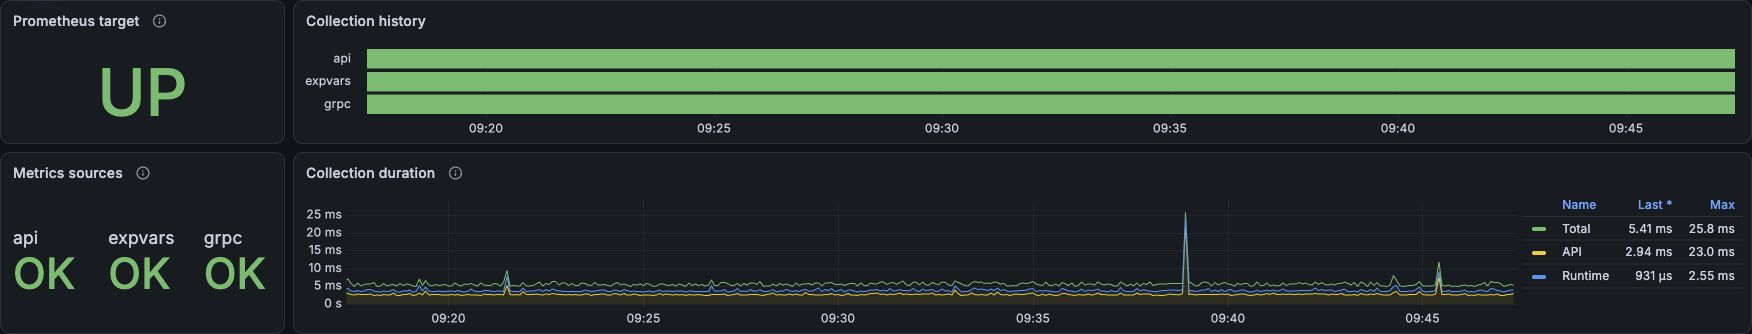
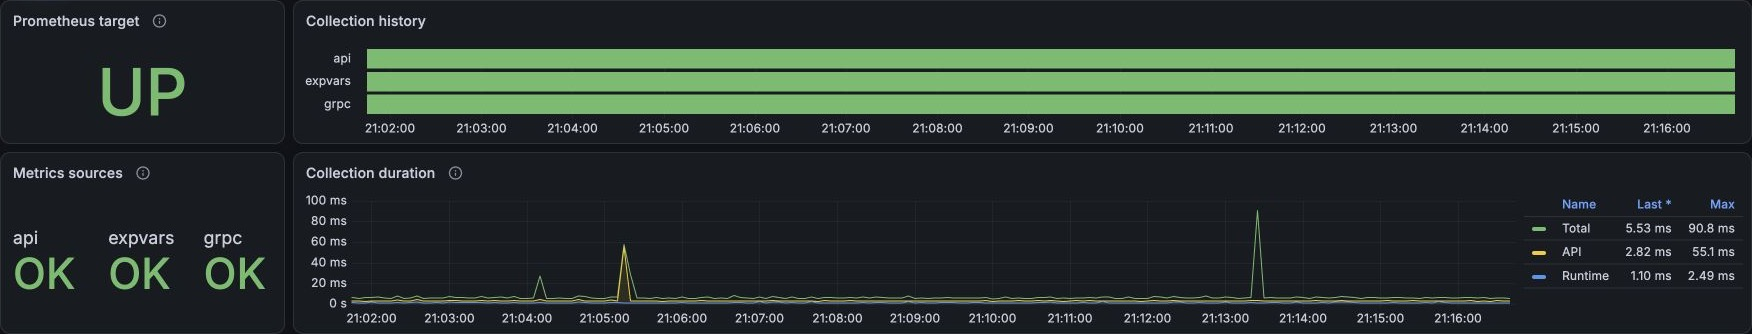
Prepare v0.3.0 release and refresh dashboard documentation

diff --git a/README.md b/README.md
@@ -66,7 +66,7 @@ cp .env.example .env
 docker compose up -d
 ```
 
-The default image tag is 0.2.0. To use the latest successful main build, set
+The default image tag is 0.3.0. To use the latest successful main build, set
 `EXPORTER_VERSION=edge` in `.env`. The `edge` tag is updated after each
 successful main pipeline.
 To build your checkout locally:
@@ -83,7 +83,7 @@ existing Compose file (here the panel service key is `x-ui`):
 services:
   # Your existing x-ui service remains here.
   exporter:
-    image: ghcr.io/nike38rus/3x-ui-exporter:0.2.0
+    image: ghcr.io/nike38rus/3x-ui-exporter:0.3.0
     network_mode: service:x-ui
     depends_on:
       x-ui:
@@ -133,6 +133,10 @@ Choose your Prometheus datasource on import; the supplied queries expect
 job="xui-exporter". Select an instance, then outbound/balancer filters.
 Dashboards were exported from Grafana 13.2; older versions are not guaranteed
 compatible. The classic format is the more widely supported import option.
+
+Queries use the current metric schema without compatibility rewrites. Historical
+series keep their original labels; schema changes can appear as separate series
+or gaps. Ordinary observatory and burstObservatory remain supported.
 
 Quality scores in Grafana are dashboard heuristics, not the Xray balancer score.
 Collection duration shows overlapping source spans without stacking; Total is
@@ -317,7 +321,7 @@ cover selection roles for all four strategies, including empty results and overr
 
 </details>
 
-### Xray
+### Panel state
 
 Sources: panel API for versions/process state; Xray expvars `memstats` for
 memory/GC. Memory metrics describe the Xray Go runtime, not the exporter process. Go-managed memory is not process RSS. Uptime and goroutine
@@ -343,9 +347,9 @@ The response does not provide a serialized snapshot timestamp, so its freshness
 cannot be independently verified. Missing fields are omitted, malformed fields
 mark API collection unsuccessful while valid independent fields remain available.
 Diagnostic `errorMsg` text is not exported or logged. The screenshots below show
-the memory/GC panels, not the new version and process-state header.
+the panel/core versions, process state and Xray memory/GC panels.
 
-![Xray memory and heap allocation metrics](docs/images/xray-process.jpg)
+![Panel and Xray versions, process state and memory metrics](docs/images/panel-state.jpg)
 
 <details>
 <summary>Garbage collection</summary>
@@ -371,46 +375,54 @@ by Prometheus, not this exporter. Settings and server/status requests start toge
 soon as settings completes. The duration panel shows overlapping source durations
 without stacking; Total is the end-to-end duration measured by Prometheus.
 
-The screenshot below predates parallel status collection; the updated duration
-panel uses unstacked source lines.
+The duration panel shows API and Runtime spans alongside the independent
+Prometheus Total, without stacking overlapping intervals.
 
 ![Exporter collection status and duration](docs/images/exporter-stats.jpg)
 
 ## Dashboard queries
 
-The role-aware dashboards require an exporter build that includes the `role`
-label (v0.2.0 and later). Upgrade the exporter and dashboards together. Selection
-queries explicitly exclude pre-upgrade series without a role, so historical data
-from the old schema does not double-count targets. Older samples are not migrated.
+Use exporter v0.2.0 or later for primary/fallback/override selection roles.
+Selection queries retain historical series without `role`; old and new label sets
+remain separate series rather than being migrated or merged. On a range spanning
+an upgrade, selected-time percentages are calculated over the available samples
+of each series, not over the entire range with missing samples counted as zero.
 
 Selected time (%), instant query:
 
 ```promql
-100 * avg_over_time(xui_balancer_outbound_selected{balancer=~"$balancer",role=~"primary|fallback|override"}[$__range])
+100 * avg_over_time(xui_balancer_outbound_selected{balancer=~"$balancer"}[$__range])
 ```
 
-Timeline (range query, actual step aligned to scrape interval):
+Timeline (range query):
 
 ```promql
-xui_balancer_outbound_selected{balancer=~"$balancer",role=~"primary|fallback|override"}
+xui_balancer_outbound_selected{balancer=~"$balancer"}
 ```
 
 Use role and outbound in the legend; fallback and override appear alongside
-primary targets. Selected target count filters `role="primary"`.
+primary targets. Selected target count filters `role="primary"`; it has no data
+for history predating that label. No primary role is inferred for older samples.
+
+Range panels use a 5-second minimum interval and a 5,000-point target. Grafana
+increases the step for longer ranges to stay below the Prometheus 11,000-point
+limit. Short states can disappear at coarser resolution; zoom in to inspect them.
 
 State timeline: fixed color mode, value mappings 0=gray/Not selected and
 1=green/Selected, mergeValues=true. Time percentages require regular complete
 scrapes. Multiple selected targets may sum above 100%.
 
-Selection state changes in the preceding minute (minute query step, bars aligned before):
+Selection state changes in a centered minute (minimum query step of one minute, centered bars):
 
 ```promql
-sum by (instance,balancer) (changes(xui_balancer_outbound_selected{role=~"primary|fallback|override"}[1m]))
+sum by (instance,balancer) (changes(xui_balancer_outbound_selected[1m] offset -30s))
 ```
 
 Each 0/1 transition is counted separately across primary, fallback and override.
 A target replacement may cause multiple transitions. Minute boundaries and
-scrape gaps limit completeness; this is not a connection-switch log.
+scrape gaps limit completeness; this is not a connection-switch log. The latest
+centered bucket is incomplete. At query steps above one minute, the panel samples
+one-minute windows rather than counting all transitions over the intervening time.
 
 ## Collection timing
 
@@ -491,10 +503,10 @@ multi-architecture image `ghcr.io/nike38rus/3x-ui-exporter:edge` and a
 CI checks pull requests and main. Pushing a vMAJOR.MINOR.PATCH tag runs tests,
 builds static Linux amd64/arm64 archives with SHA-256 checksums, creates a
 GitHub release and publishes a multi-architecture GHCR image. A tag such as
-v0.2.0 produces ghcr.io/nike38rus/3x-ui-exporter:0.2.0. The first GHCR package
+v0.3.0 produces ghcr.io/nike38rus/3x-ui-exporter:0.3.0. The first GHCR package
 may need its visibility set to public in GitHub package settings.
 
-Build locally with make release VERSION=v0.2.0. Archives include dashboards,
+Build locally with make release VERSION=v0.3.0. Archives include dashboards,
 README with its screenshot assets, LICENSE and third-party notices. Build version is embedded via
 -X main.version and exposed in xui_exporter_build_info. Release workflows
 publish versioned releases when a tag is pushed; local builds do not publish anything.

diff --git a/VERIFICATION.md b/VERIFICATION.md
@@ -12,7 +12,7 @@ timeouts, concurrent scrapes, request budgets and independent source timing.
 The gRPC binding test uses an in-memory server; no live services are required.
 
 make build linux builds the native binary and static Linux amd64/arm64 binaries.
-make release VERSION=v0.1.0 packages the Linux binaries with dashboards,
+make release VERSION=v0.3.0 packages the Linux binaries with dashboards,
 documentation and license notices, and produces SHA-256 checksums.
 
 ## Deployment verification
@@ -52,4 +52,19 @@ both API calls without summing them, and gRPC/expvars do not wait for status.
 Read-only verification of the installed panel confirmed the existing Bearer token
 can call server/status and receive panelVersion 3.10.2, Xray version 26.10.10,
 and state running. No service restart or routing mutation was used for this check.
-The new exporter binary has not yet been deployed for an end-to-end live test.
+The user subsequently installed the edge image and updated the dashboard.
+
+## Dashboard query audit
+
+Both dashboard formats contain the same 49 PromQL expressions. All were accepted
+by the deployment Prometheus during the query audit. Over a two-day range, health,
+latency and failed-probe ratios retained identical values after removing redundant
+vector matching. The simplified quality expression matched the original values
+within floating-point tolerance. Removing the selection role filter recovered
+older label-less history as separate series. Deviation now shows its raw gauge
+rather than an interval average.
+
+A two-day query at a 15-second step reproduced the 11,000-point resolution error;
+a 30-second step succeeded. Both formats now use a 5,000-point target while
+preserving minimum intervals. This verification covers the checked queries and
+deployment, not every Grafana version or arbitrary date range.

diff --git a/docs/releases/v0.3.0.md b/docs/releases/v0.3.0.md
@@ -1,0 +1,19 @@
+## Panel and Xray status
+
+- Add a GET /panel/api/server/status request within the existing API source, parallel with configuration discovery.
+- Export xui_panel_info{version}, xui_xray_info{version}, and xui_xray_state{state="running|stop|error"}.
+- Preserve independent successful fields and sources on failure; omit unknown/missing state and versions without caching or source fallback.
+- API duration now spans both parallel API requests; runtime collection starts immediately after configuration discovery, without waiting for status.
+- Add version/process-state cards to both dashboard formats and display overlapping durations without stacking.
+
+The panel supplies its latest background status snapshot, not a fresh process probe on each exporter request. Missing fields in older panels are omitted. Update the dashboard with the exporter to use the revised timing model.
+
+## Dashboard resolution and query cleanup
+
+- Rename the Xray process section to Panel state.
+- Reduce the point target to 5,000 in both dashboard formats, avoiding the observed two-day resolution error caused by Grafana rounding the step to 15 seconds. Preserve minimum query intervals.
+- Remove the all-role selection filter so pre-role history remains visible as separate series, without compatibility rewrites or inferred labels. Primary target count still requires an explicit primary role.
+- Remove redundant vector matching, show raw RTT deviation, and simplify quality algebra without changing its formula. Keep ordinary and burst observation support.
+- Document centered selection-change windows and coarse-resolution limitations.
+
+Reimport the dashboard to apply these changes; dashboard-only fixes do not require an exporter restart. Historical series are neither migrated nor deleted.
